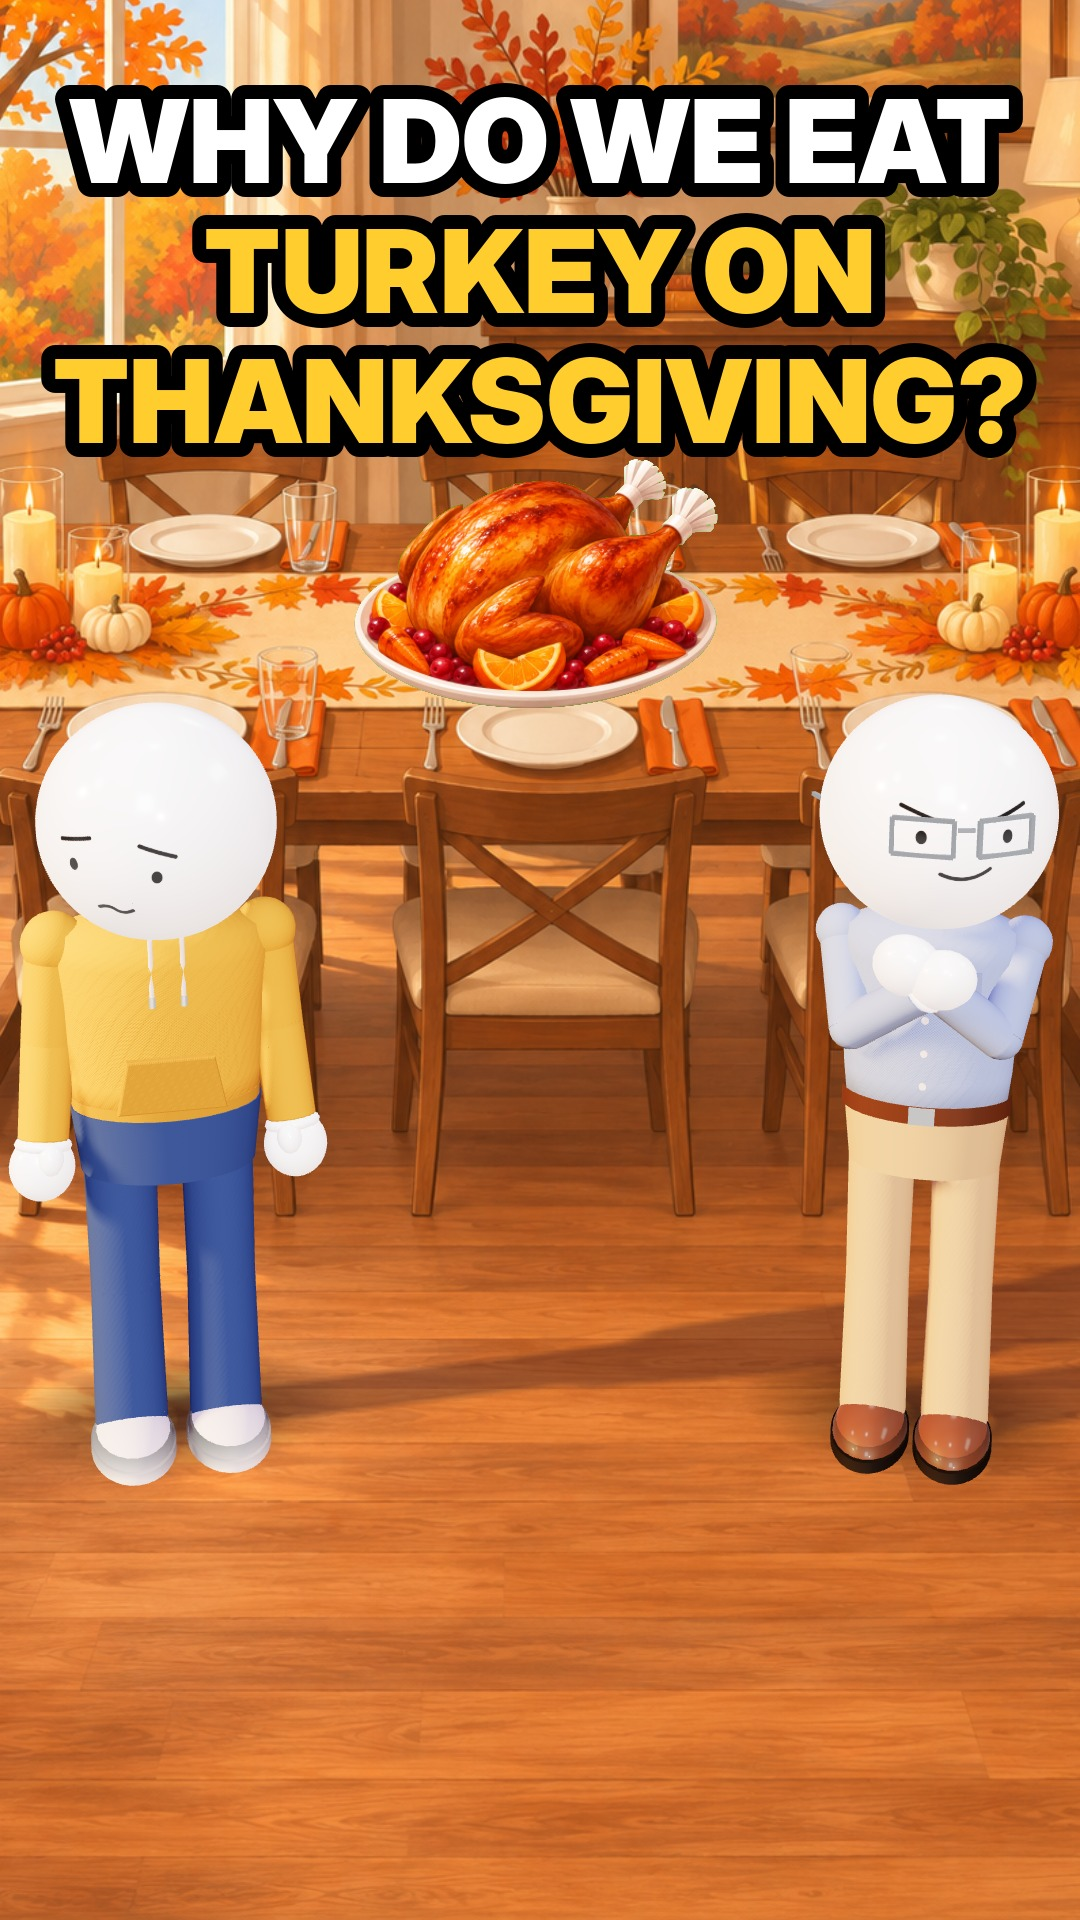
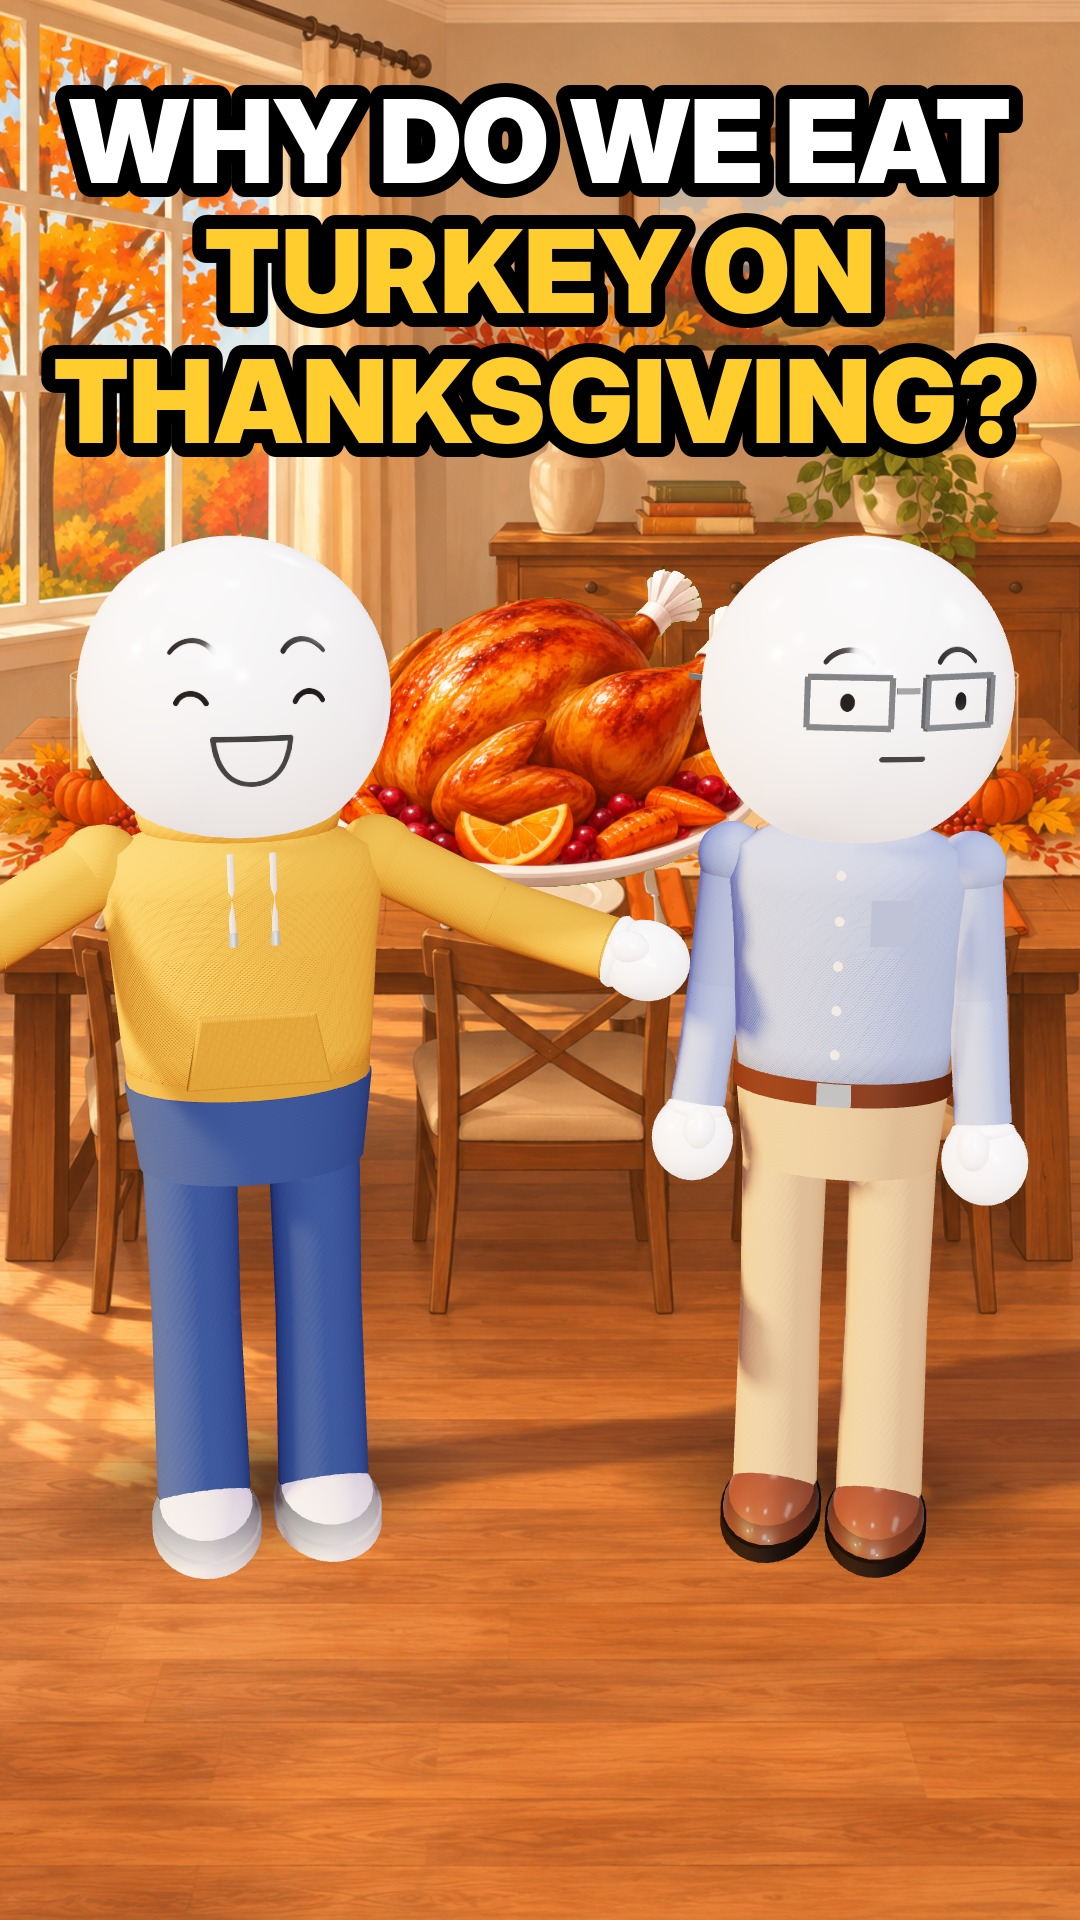
turkey-thanksgiving: bigger characters in the dining room, reframed shots, new cover
Claude-Session: https://claude.ai/code/session_01HD3jrLcoK1kMkb9xVrgRkH

diff --git a/videos/turkey-thanksgiving/scene.js b/videos/turkey-thanksgiving/scene.js
@@ -19,7 +19,7 @@
 
   window.SCENE = {
     plates: {
-      '01': { img: '01_dining_room_day.png', hz: .28, vx: .5, fov0: 55, camH: 3.4, light: L.dining },
+      '01': { img: '01_dining_room_day.png', hz: .28, vx: .5, fov0: 55, camH: 2.3, light: L.dining },
       '02': { img: '02_plymouth_harvest_1621.png', hz: .38, vx: .5, fov0: 55, camH: 1.6, light: 'day' },
       '03': { img: '03_editor_office_1800s.png', hz: .55, vx: .5, fov0: 55, camH: 1.6, light: 'interior' },
       '04': { img: '04_lincoln_desk_1863.png', hz: .5, vx: .5, fov0: 55, camH: 1.6, light: 'interior' },
@@ -44,13 +44,13 @@
       { at: 'deer', plate: '02', zoom: [1.12, 1.18], focus: [[.5, .52], [.5, .52]] },
       { at: 'notice', plate: '01', zoom: [1.8, 1.8], focus: [[.5, .35], [.5, .35]] },
       { at: 'doubt', plate: '01', zoom: [1.15, 1.2], focus: [[.5, .58], [.5, .58]] },
-      { at: 'hale', plate: '01', zoom: [1.3, 1.6], focus: [[.5, .5], [.5, .46]] },
+      { at: 'hale', plate: '01', zoom: [1.1, 1.22], focus: [[.5, .55], [.5, .53]] },
       { at: 'editor', plate: '03', zoom: [1.0, 1.12], focus: [[.5, .3], [.5, .26]] },
       { at: 'novel', plate: '03', zoom: [1.15, 1.2], focus: [[.5, .6], [.5, .6]] },
       { at: 'letters', plate: '03', zoom: [1.1, 1.14], focus: [[.5, .55], [.5, .55]] },
       { at: 'lincoln', plate: '04', zoom: [1.0, 1.1], focus: [[.5, .5], [.5, .52]] },
       { at: 'big', plate: '01', zoom: [1.12, 1.0], focus: [[.5, .56], [.5, .56]] },
-      { at: 'eggs', plate: '01', zoom: [1.3, 1.36], focus: [[.5, .5], [.5, .5]] },
+      { at: 'eggs', plate: '01', zoom: [1.1, 1.15], focus: [[.5, .55], [.5, .55]] },
       { at: 'today', plate: '01', zoom: [1.05, 1.08], focus: [[.5, .6], [.5, .6]] },
       { at: 'end', plate: '05', zoom: [1.0, 1.06], focus: [[.5, .55], [.5, .56]] },
       { at: 'deerplate', plate: '05', zoom: [1.22, 1.28], focus: [[.42, .6], [.42, .6]] },
@@ -68,7 +68,7 @@
       const turkey01 = (s = 1, a = 1) => { const p = K.img(DTABLE.ix, DTABLE.iy); K.prop('P01', { x: p.x, y: p.y, w: 300 * S * s, anchor: [.5, .85], a, layer: 'back' }); };
       // the letter insert, centered in the safe area (P02 is 1086x1448; its blank band is at ~49% height)
       const letter = (o = {}) => { const w = 640 * (o.s || 1), y = (o.y || 730); K.prop('P02', { x: 540, y, w, rot: o.rot || -.015 }); return { w, y, band: y + (.49 - .5) * w * 1448 / 1086 }; };
-      const dining2 = () => { K.placeAt('doug', 205, 1300, .25); K.placeAt('gary', 745, 1300, -.25); };
+      const dining2 = () => { K.placeAt('doug', 235, 1300, .25); K.placeAt('gary', 715, 1300, -.25); };
       switch (id) {
         case 'q': { turkey01(1);
           const a = K.clamp01((at('card') - t) / .2);
@@ -154,9 +154,9 @@
           if (t > tc) K.text('= CHEAP', { y: 400, size: 96, color: 'gold', scale: popIn(K, t, tc) });
           face(G, 'flat', t, 1); G.pose({ t, gesture: 'shrug', gw: K.ease((t - te) / .35) }); face(D, t > tk && t < tk + .5 ? 'blink' : 'surprised', t); D.pose({ t, look: -.4, lean: -.06 }); break; }
         case 'today': { turkey01(); dining2(); const tn = wordAt(K, 'nine', 'today');
-          for (let i = 0; i < 10; i++) { const ti = at('today') + .15 + i * .12, x = 160 + (i % 5) * 190, y = 300 + Math.floor(i / 5) * 160;
-            if (t > ti) K.prop(i < 9 ? 'P01' : 'P10', { x, y, w: 170 * popIn(K, t, ti) }); }
-          if (t > tn) K.text('9 IN 10 AMERICANS', { y: 520, size: 74, color: 'gold', scale: popIn(K, t, tn) });
+          for (let i = 0; i < 10; i++) { const ti = at('today') + .15 + i * .12, x = 180 + (i % 5) * 180, y = 215 + Math.floor(i / 5) * 115;
+            if (t > ti) K.prop(i < 9 ? 'P01' : 'P10', { x, y, w: 135 * popIn(K, t, ti) }); }
+          if (t > tn) K.text('9 IN 10 AMERICANS', { y: 420, size: 70, color: 'gold', scale: popIn(K, t, tn) });
           face(D, 'smile', t); D.pose({ t, nod: .1 * Math.sin(t * 4) }); face(G, 'smile', t, 1); G.pose({ t, look: .2 }); break; }
         case 'end': { K.placeAt('doug', 330, 1215, .15); const te = wordAt(K, 'exactly', 'end');
           face(D, t > te ? 'smirk' : 'smile', t); D.pose({ t, gesture: 'hips', gw: K.ease((t - te + .2) / .35) }); break; }

diff --git a/videos/turkey-thanksgiving/post.md b/videos/turkey-thanksgiving/post.md
@@ -1,6 +1,6 @@
 # Posting kit: turkey-thanksgiving
 
-**Cover:** `cover.jpg` (1080×1920): worried Doug and smirking, arms-crossed Gary at the Thanksgiving table, the roast turkey between them (frame 33 s). Headline in the top quarter.
+**Cover:** `cover.jpg` (1080×1920): happy Doug presenting the giant roast turkey, deadpan Gary beside it (frame 49.9 s). Headline in the top quarter.
 
 **Caption (TikTok / Reels):**
 Why do we eat turkey on Thanksgiving?
